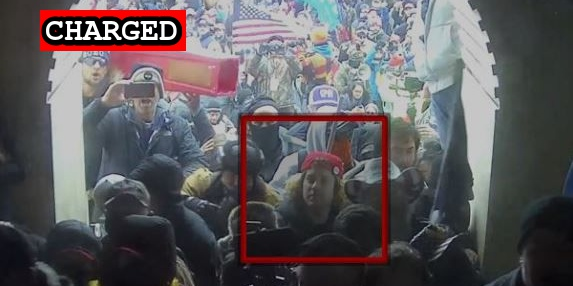
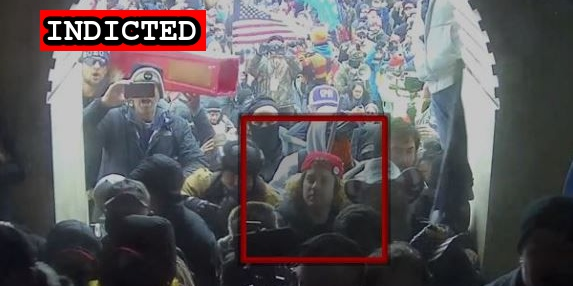
new indictments

Changed region(s): [[0.0593, 0.028, 0.3857, 0.1958]]

diff --git a/commands/suspect-import.ts b/commands/suspect-import.ts
@@ -432,7 +432,7 @@ const addData = (suspectData) => {
     if (suspect.links[type]) {
       // link already exists but there may be a "better" one from DOJ
       if (/^https:\/\/www.justice.gov/.test(<string>url) && suspect.links[type] != url) {
-        console.log(`${suspect.name}: ${type}`);
+        console.log(`${suspect.name}: ${type} (Updated Link)`);
         suspect.links[type] = <string>url
       } else {
         continue

diff --git a/docs/_suspects/nicholas-languerand.md b/docs/_suspects/nicholas-languerand.md
@@ -3,13 +3,14 @@ name: Nicholas Languerand
 lastName: Languerand
 aka:
 residence: South Carolina
-status: Charged
+status: Indicted
 date: 2021-04-15
 charged: 2021-04-15
-indicted:
-convicted: 
-sentenced: 
-dismissed: 
+indicted: 2021-05-12
+convicted:
+sentenced:
+dismissed:
+deceased:
 age: 26
 occupation:
 affiliations:
@@ -21,14 +22,16 @@ courtroom:
 courthouse:
 raid:
 perpwalk:
-quote: "Only true fascists censor and slander the opposition. You are doing precisely what SS soldiers and sympathizers would’ve done to Jews in 1940s Germany. God is watching."
+quote: 'Only true fascists censor and slander the opposition. You are doing precisely what SS soldiers and sympathizers would’ve done to Jews in 1940s Germany. God is watching.'
 title: Nicholas Languerand arrested on April 15, 2021
 description: Click for latest case details. Suspects innocent until proven guilty.
 author: seditiontrack
 layout: suspect
 published: true
-charges:
+caseNumber:
 ---
+
 - [News Story](https://www.wyff4.com/article/instagram-post-leads-to-little-river-mans-arrest-for-alleged-role-in-deadly-capitol-riots-horry-county/36136043)
 - [Complaint](https://www.justice.gov/usao-dc/case-multi-defendant/file/1388816/download)
 - [Statement of Facts](https://www.justice.gov/usao-dc/case-multi-defendant/file/1388821/download)
+- [Indictment](https://www.justice.gov/usao-dc/case-multi-defendant/file/1422241/download)

diff --git a/docs/_suspects/david-judd.md b/docs/_suspects/david-judd.md
@@ -3,13 +3,13 @@ name: David Judd
 lastName: Judd
 aka:
 residence: Texas
-status: Charged
+status: Indicted
 date: 2021-03-23
 charged: 2021-03-23
-indicted:
-convicted: 
-sentenced: 
-dismissed: 
+indicted: 2021-06-16
+convicted:
+sentenced:
+dismissed:
 deceased:
 age: 35
 occupation:
@@ -22,7 +22,7 @@ courtroom:
 courthouse:
 raid:
 perpwalk:
-quote: "He threw a firecracker, a big giant, what the ...."
+quote: 'He threw a firecracker, a big giant, what the ....'
 title: David Judd charged on March 23, 2021
 description: Click for latest case details. Suspects innocent until proven guilty.
 author: seditiontrack
@@ -30,7 +30,9 @@ layout: suspect
 published: true
 caseNumber: 1:21-cr-40
 ---
+
 - [News Report](https://www.dallasnews.com/news/crime/2021/03/26/dallas-fbi-arrests-its-20th-alleged-rioter-for-storming-of-the-capitol-during-uprising/)
 - [Complaint](https://www.justice.gov/usao-dc/case-multi-defendant/file/1380666/download)
 - [Statement of Facts](https://www.justice.gov/usao-dc/case-multi-defendant/file/1380671/download)
 - [Closed Circuit Evidence (Video)](https://twitter.com/ryanjreilly/status/1417812077616435201)
+- [Indictment](https://www.justice.gov/usao-dc/case-multi-defendant/file/1410701/download)

diff --git a/docs/_suspects/arthur-jackman.md b/docs/_suspects/arthur-jackman.md
@@ -30,10 +30,9 @@ layout: suspect
 published: true
 caseNumber: 1:21-cr-378
 ---
-
 - [News Report](https://www.clickorlando.com/news/local/2021/03/30/capitol-riot-suspect-in-custody-in-orlando/)
 - [Complaint](https://www.justice.gov/opa/case-multi-defendant/file/1381341/download)
 - [Statement of Facts](https://www.justice.gov/opa/case-multi-defendant/file/1381346/download)
 - [Courthouse [Video]](https://twitter.com/DianthaSol/status/1377391331740368899)
-- [Indictment](https://extremism.gwu.edu/sites/g/files/zaxdzs2191/f/Arthur%20Jackman%20and%20Paul%20Rae%20Indictment.pdf)
+- [Indictment](https://www.justice.gov/usao-dc/case-multi-defendant/file/1415781/download)
 - [Notice of Discovery](https://www.documentcloud.org/documents/21033864-210803-jackman-notice-of-discovery)

diff --git a/docs/_suspects/mark-ibrahim.md b/docs/_suspects/mark-ibrahim.md
@@ -3,10 +3,10 @@ name: Mark Ibrahim
 lastName: Ibrahim
 aka:
 residence: California
-status: Charged
+status: Indicted
 date: 2021-07-06
 charged: 2021-07-06
-indicted:
+indicted: 2021-07-28
 convicted:
 sentenced:
 dismissed:
@@ -30,5 +30,7 @@ layout: suspect
 published: true
 caseNumber: 1:21-mj-516
 ---
+
 - [News Report](https://www.cbsnews.com/news/mark-ibrahim-dea-agent-arrested-capitol-riot-gun-badge/)
 - [Statement of Facts](https://www.justice.gov/usao-dc/case-multi-defendant/file/1413286/download)
+- [Indictment](https://www.justice.gov/usao-dc/case-multi-defendant/file/1422231/download)

diff --git a/docs/_suspects/emanuel-jackson.md b/docs/_suspects/emanuel-jackson.md
@@ -34,3 +34,4 @@ caseNumber: 1:21-cr-395
 - [Statement of Facts](https://www.justice.gov/opa/page/file/1357096/download)
 - [DOJ Press Release](https://www.justice.gov/usao-dc/pr/three-charged-federal-court-assaulting-and-impeding-local-and-federal-officers-during-us)
 - [Complaint](https://www.justice.gov/opa/page/file/1357091/download)
+- [Information](https://www.justice.gov/usao-dc/case-multi-defendant/file/1415791/download)

diff --git a/docs/_suspects/philip-kramer.md b/docs/_suspects/philip-kramer.md
@@ -32,3 +32,4 @@ caseNumber: 1:21-mj-360
 ---
 - [News Report](https://winningcaseamerica.com/index.php/2021/05/19/california-man-accused-of-being-involved-in-jan-6-capitol-siege-says-he-did-nothing-wrong/)
 - [Statement of Facts](https://www.justice.gov/usao-dc/case-multi-defendant/file/1393626/download)
+- [Information](https://www.justice.gov/usao-dc/case-multi-defendant/file/1419096/download)
